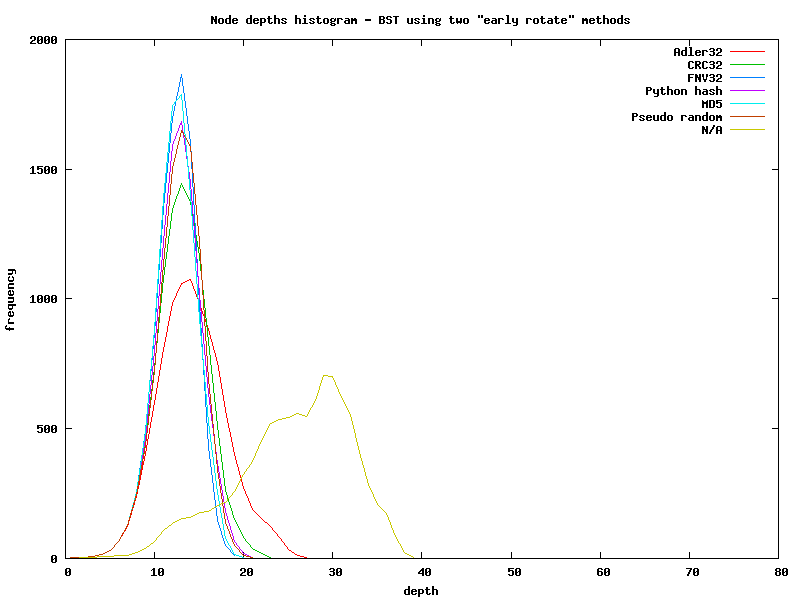
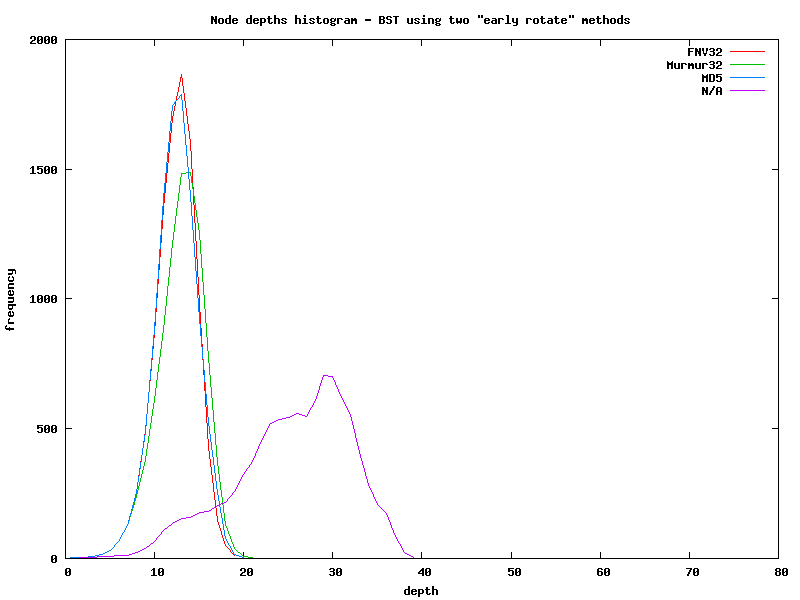
python programs: +murmur hash

diff --git a/py/hash/murmur.py b/py/hash/murmur.py
@@ -1,0 +1,70 @@
+# 32-bit Murmur hash function
+
+c1 = 0xcc9e2d51
+c2 = 0x1b873593
+r1 = 15
+r2 = 13
+m  = 5
+n  = 0xe6546b64
+
+def mul(a, b):
+	return (a * b) & 0xffffffff
+
+def add(a, b):
+	return (a + b) & 0xffffffff
+
+def shr(a, n):
+	return (a & 0xffffffff) >> n
+
+def shl(a, n):
+	return (a << n) & 0xffffffff
+
+def get(string):
+	hash = 0xdeadbeef
+
+	rounded = 4*(len(string)/4)
+
+	for i in xrange(0, rounded, 4):
+		byte0 = ord(string[i + 0])
+		byte1 = ord(string[i + 1])
+		byte2 = ord(string[i + 2])
+		byte3 = ord(string[i + 3])
+		
+		k = (byte3 << 24) | (byte2 << 16) | (byte1 << 8) | byte0
+
+		k = mul(k, c1)
+		k = shl(k, r1) | shr(hash, 32 - r1)
+		k = mul(k, c2)
+
+		hash = hash ^ k
+		hash = shl(hash, r2) | shr(hash, 32 - r2)
+		hash = mul(hash, m)
+		hash = add(hash, n)
+
+	if len(string) % 4 > 0:
+		t = len(string) % 4
+		tail = string[-t:]
+
+		def get_byte(i):
+			try:
+				return ord(tail[i])
+			except IndexError:
+				return 0
+
+		k = (get_byte(3) << 24) | (get_byte(2) << 16) | (get_byte(1) << 8) | get_byte(0)
+
+		k = mul(k, c1)
+		k = shl(k, r1) | shr(hash, 32 - r1)
+		k = mul(k, c2)
+
+		hash = hash ^ k
+
+
+	hash = hash ^ (len(string) & 0xffffffff)
+	hash = hash ^ shr(hash, 16)
+	hash = mul(hash, 0x85ebca6b)
+	hash = hash ^ shr(hash, 13)
+	hash = mul(hash, 0xc2b2ae35)
+	hash = hash ^ shr(hash, 16)
+
+	return hash

diff --git a/py/key_function.py b/py/key_function.py
@@ -1,5 +1,6 @@
 from random import randint, seed
 from hash.fnv import get as fnv_hash
+from hash.murmur import get as murmur_hash
 from zlib import crc32, adler32   
 import hashlib
 from hashlib import md5
@@ -27,6 +28,7 @@ functions = {
 	'hash'		: get_key_hash,
 	'random'	: get_key_random,
 	'fnv'		: fnv_hash,
+	'murmur'	: murmur_hash,
 	'crc32'		: crc32,
 	'adler32'	: adler32,
 	'md5'		: get_key_md5,

diff --git a/py/main.py b/py/main.py
@@ -22,9 +22,6 @@ def main(argv):
 
 	if options.validate:
 		print 'validating...'
-		#from dot import dot_export
-		#with file('z.dot', 'w') as f:
-		#	dot_export(tree, f)
 		for string in data:
 			assert tree.find(get_key(string)) is not None
 
